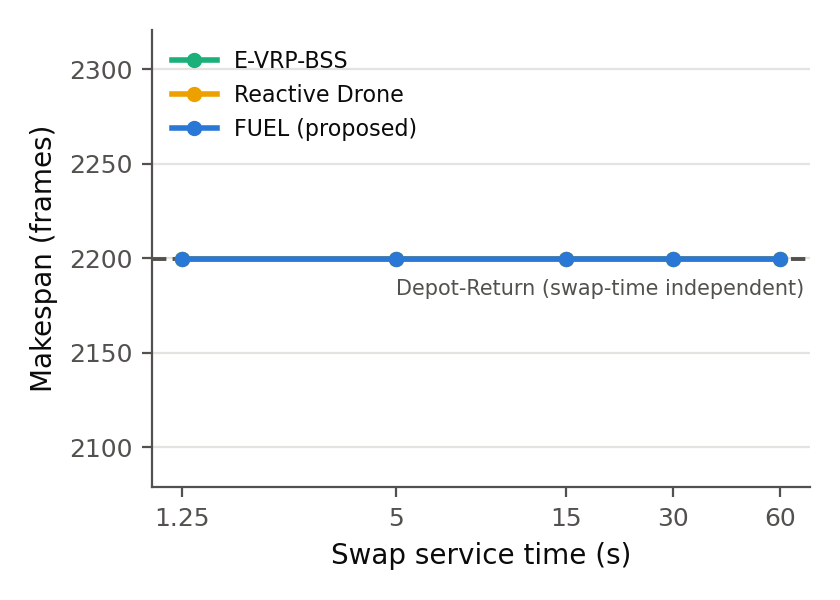
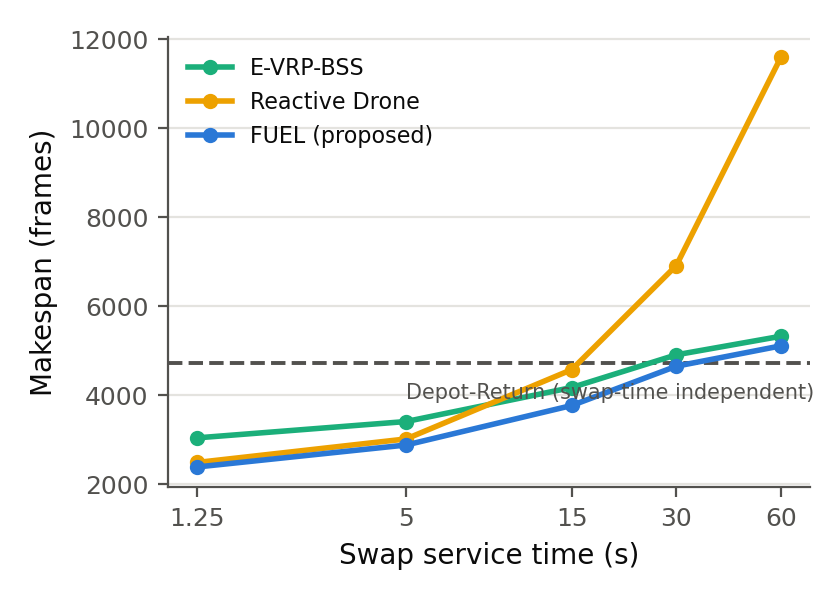
Rerun swap-latency sweep where energy binds; add --only flag; update paper
The latency sweep now runs at truck range 2000 so swaps actually occur
(on the default scenario it was flat). sweep.py gains --only
{fleet,latency,density}. Submodule pointer moves to the rewritten paper.

diff --git a/sweep.py b/sweep.py
@@ -17,6 +17,7 @@ MAX_ITER = 300000
 FLEET_TRUCKS = [2, 4, 6, 8, 12]
 FLEET_DPS = [1, 2, 4]
 LATENCY_FRAMES = [150, 600, 1800, 3600, 7200]  # 1.25 s .. 60 s at 120 fps
+LATENCY_TRUCK_RANGE = 2000  # swaps must actually bind for latency to matter
 DENSITY_MAZES = ['maze.csv',
                  'maps/maze_35x35_loop20_s1.csv',
                  'maps/maze_35x35_loop80_s1.csv',
@@ -36,13 +37,16 @@ def main():
     parser = argparse.ArgumentParser()
     parser.add_argument('--seeds', type=int, default=10)
     parser.add_argument('--out', default='results/sweeps')
+    parser.add_argument('--only', choices=['fleet', 'latency', 'density'], default=None,
+                        help='run a single sweep instead of all three')
     args = parser.parse_args()
+    run = lambda name: args.only is None or args.only == name
     seeds = range(1, args.seeds + 1)
 
     # 1. Fleet scaling: all strategies across truck fleet sizes; the proposed
     # method additionally across drone counts (saturation analysis).
     rows = []
-    for trucks in FLEET_TRUCKS:
+    for trucks in (FLEET_TRUCKS if run('fleet') else []):
         for seed in seeds:
             for strategy in Strategy:
                 rows.append(run_one(strategy, seed, MAX_ITER, 'maze.csv',
@@ -51,30 +55,34 @@ def main():
                 rows.append(run_one(Strategy.PROACTIVE_FUEL, seed, MAX_ITER, 'maze.csv',
                                     num_trucks=trucks, drones_per_station=dps))
         print(f'fleet: trucks={trucks} done')
-    write_csv(os.path.join(args.out, 'fleet_scaling.csv'), rows)
+    if rows:
+        write_csv(os.path.join(args.out, 'fleet_scaling.csv'), rows)
 
     # 2. Swap-latency sensitivity: how each swapping strategy degrades as the
     # physical swap gets slower (depot-return is unaffected by definition).
     rows = []
-    for frames in LATENCY_FRAMES:
+    for frames in (LATENCY_FRAMES if run('latency') else []):
         for strategy in (Strategy.FIXED_STATION_EVRP, Strategy.REACTIVE_DRONE,
                          Strategy.PROACTIVE_FUEL):
             for seed in seeds:
                 rows.append(run_one(strategy, seed, MAX_ITER, 'maze.csv',
-                                    service_frames=frames))
+                                    service_frames=frames, truck_range=LATENCY_TRUCK_RANGE))
         print(f'latency: {frames} frames done')
-    for seed in seeds:  # depot reference (latency-independent)
-        rows.append(run_one(Strategy.DEPOT_ONLY, seed, MAX_ITER, 'maze.csv'))
-    write_csv(os.path.join(args.out, 'swap_latency.csv'), rows)
+    if run('latency'):
+        for seed in seeds:  # depot reference (latency-independent)
+            rows.append(run_one(Strategy.DEPOT_ONLY, seed, MAX_ITER, 'maze.csv',
+                                truck_range=LATENCY_TRUCK_RANGE))
+        write_csv(os.path.join(args.out, 'swap_latency.csv'), rows)
 
     # 3. Map topology: all strategies across maze densities/sizes.
     rows = []
-    for maze in DENSITY_MAZES:
+    for maze in (DENSITY_MAZES if run('density') else []):
         for strategy in Strategy:
             for seed in seeds:
                 rows.append(run_one(strategy, seed, MAX_ITER, maze))
         print(f'density: {maze} done')
-    write_csv(os.path.join(args.out, 'map_density.csv'), rows)
+    if rows:
+        write_csv(os.path.join(args.out, 'map_density.csv'), rows)
 
 
 if __name__ == '__main__':
